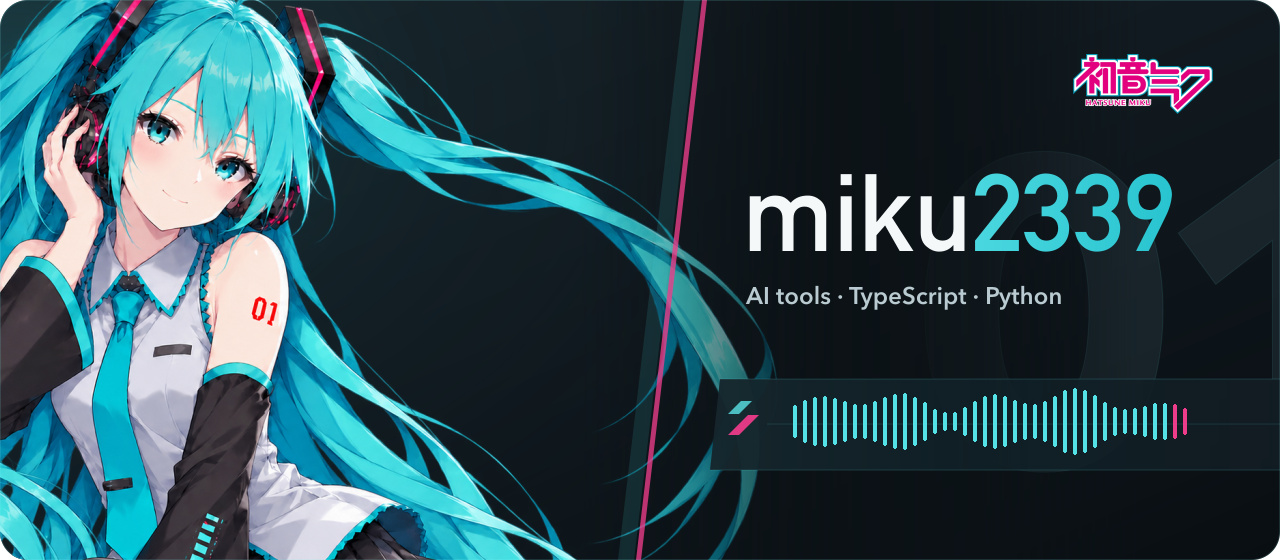
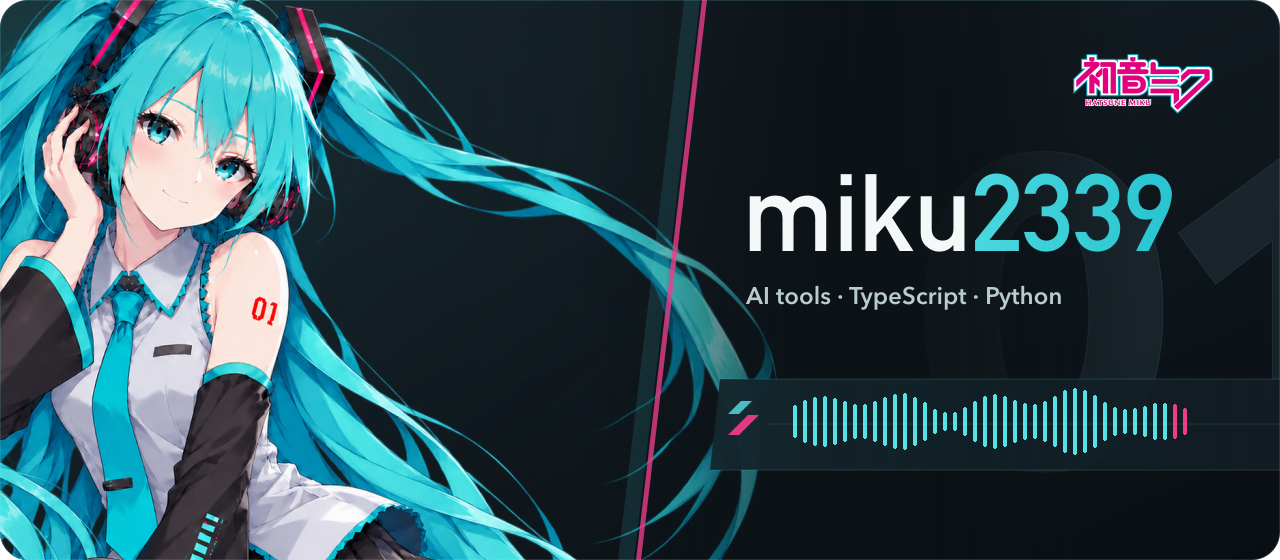
需求：讓初音頭髮自然飄動
實現思路：局部變形右側髮尾，保留人物與文字穩定，加入六秒循環動效。

Changed region(s): [[0.2812, 0.0911, 0.5625, 0.7589]]

diff --git a/README.md b/README.md
@@ -1,4 +1,4 @@
-![miku2339 — AI tools, TypeScript and Python, with Hatsune Miku and flowing turquoise twin tails.](assets/header-miku.gif?v=894ab4ca8d24)
+![miku2339 — AI tools, TypeScript and Python, with Hatsune Miku and flowing turquoise twin tails.](assets/header-miku.gif?v=ae61a9885d5d)
 
 I build tools for AI, my NAS, and everyday tasks.
 
